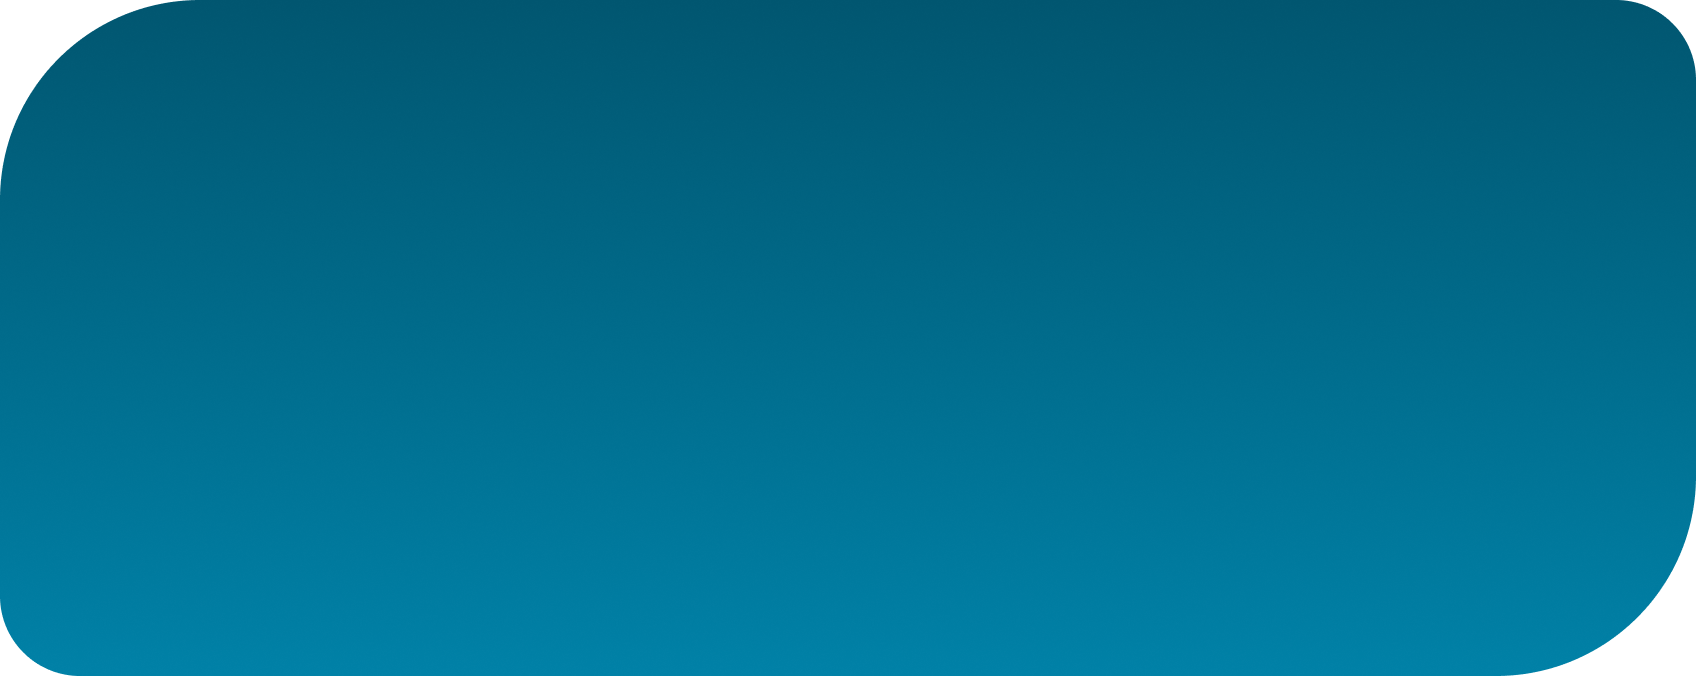
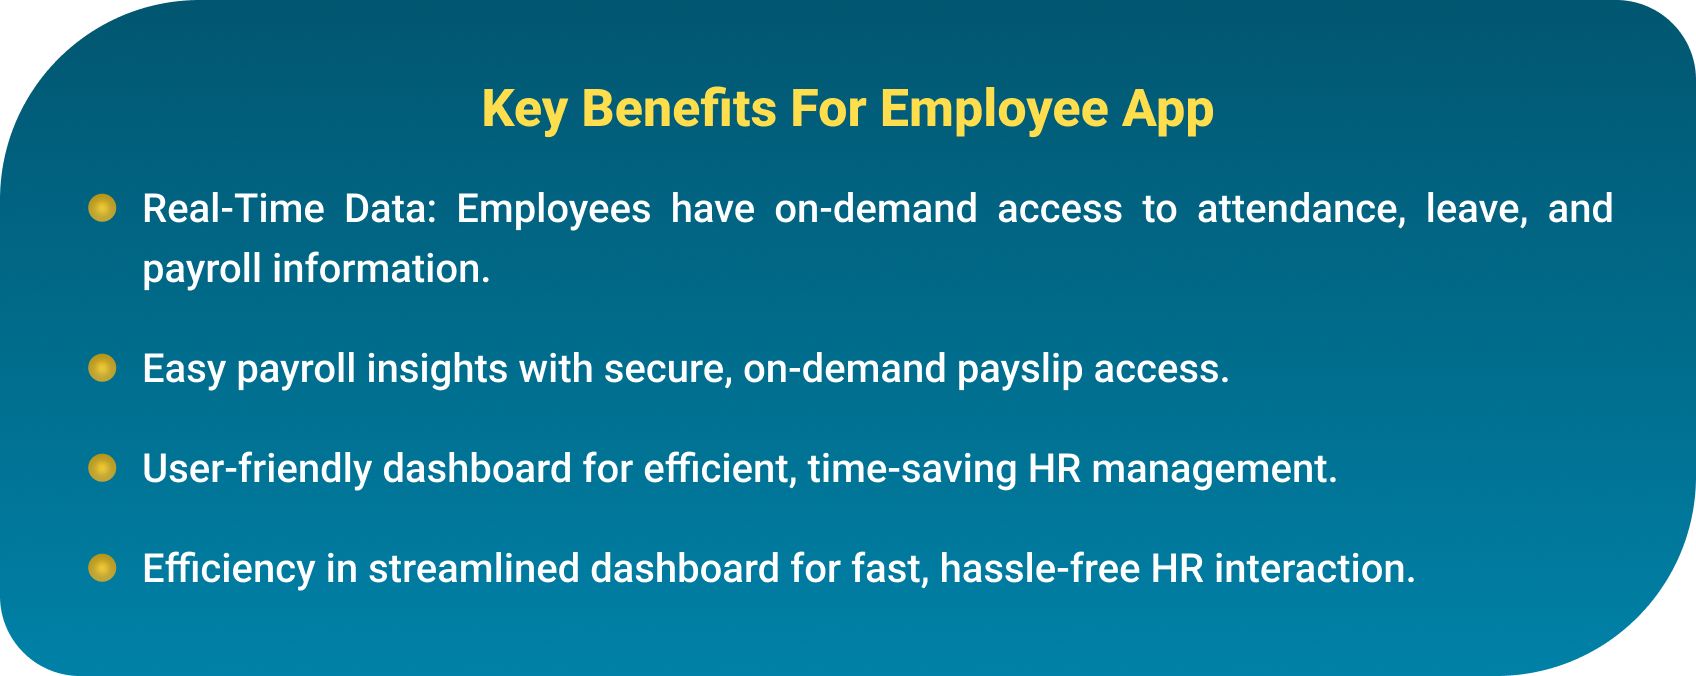
changes
banner

diff --git a/mobileapp.html b/mobileapp.html
@@ -1,5 +1,6 @@
 <!DOCTYPE html>
 <html lang="en">
+
 <head>
     <meta charset="UTF-8">
     <meta name="viewport" content="width=device-width, initial-scale=1.0">
@@ -16,8 +17,6 @@
     <script src="./bannerscript/bannerscript.js"></script>
     <link rel="stylesheet" href="./bannerstyles/bannerstyle.css">
 
- 
-    
     </script>
 </head>
 <body>
@@ -30,7 +29,9 @@
         <img src="./assets/banner/mobileapp.png" alt="IT Solutions Banner" class="banner-image">
         <div class="overlay-text">
             <h1>Seamless HR Management at Your Fingertips</h1>
-            <p class="banner-paragraph">"From clocking in to accessing payroll, HRIFY puts everything you need in one app. Easily manage attendance, request leave, and stay connected with your team—all in real-time, right from your mobile."</p>
+            <p class="banner-paragraph">"From clocking in to accessing payroll, HRIFY puts everything you need in one
+                app. Easily manage attendance, request leave, and stay connected with your team—all in real-time, right
+                from your mobile."</p>
             <button class="cta-button" id="cta-button">Explore Employee App Features</button>
         </div>
     </div>
@@ -39,56 +40,55 @@
     <!-- App-Simplifying  part -->
 
     <div class="container py-5">
-      <div class="row align-items-center">
-        <!-- Left Side Content -->
-        <div class="col-lg-8 col-md-12">
-            <h2 class="text-primary fw-bold">HRIFY Employee App - Simplifying HR on the Go</h2>
-            <p class="mb-4">The HRIFY Employee App streamlines payroll, leave, and attendance administration by putting necessary HR tools at workers' fingertips. Employees can easily stay informed and connected because of the dashboard's ease of use.</p>
-            <ul class="list-unstyled">
-                <li class="mb-2"><span class="text-primary fw-bold">● Check-in/Check-Out:</span> Simple one-touch check-in and check-out for accurate time tracking.</li>
-                <li class="mb-2"><span class="text-primary fw-bold">● Attendance Overview:</span> View attendance history and current status at a glance.</li>
-                <li class="mb-2"><span class="text-primary fw-bold">● Leave Tracking:</span> Seamlessly manage leave balances, request leaves, and track approvals.</li>
-                <li class="mb-2"><span class="text-primary fw-bold">● Payroll Access:</span> Instantly access payroll details, view salary breakdowns, and download payslips.</li>
-            </ul>
-        </div>
-
-        <!-- Right Side Image (Smaller) -->
-        <div class="col-lg-4 col-md-12 text-center mt-4 mt-lg-0">
-            <img src="./assets/mobileappscreen/one.png" alt="HRIFY App Screenshot" class="img-fluid w-50 mx-auto d-block rounded " style="width: 100px; height: auto;">
-        </div>
-     </div>
-</div>
-
-    <div class="container py-5">
-      <div class="row align-items-center">
-        <!-- left Side Image (Smaller) -->
-        <div class="col-lg-4 col-md-12 text-center mt-4 mt-lg-0">
-            <img src="./assets/mobileappscreen/two.png" alt="HRIFY App Screenshot" class="img-fluid w-50 mx-auto d-block rounded " style="width: 100px; height: auto;">
-        </div>
-
-        <div class="col-lg-8 col-md-12 text-center mt-4 mt-lg-0 position-relative">
-            <img src="./assets/mobileappscreen/back banner.png" alt="HRIFY App Screenshot" class="img-fluid mx-auto d-block rounded">
-            <div class="position-absolute top-50 start-50 translate-middle bg-dark text-white p-3 rounded shadow-lg w-75">
-                <h5 class="fw-bold">Key Benefits For Employee App</h5>
-                <ul class="text-start m-0 p-0" style="list-style-type: none;">
-                    <li>&#x2022; <strong>Real-Time Data:</strong> Employees have on-demand access to attendance, leave, and payroll information.</li>
-                    <li>&#x2022; Easy payroll insights with secure, on-demand payslip access.</li>
-                    <li>&#x2022; User-friendly dashboard for efficient, time-saving HR management.</li>
-                    <li>&#x2022; Efficiency in streamlined dashboard for fast, hassle-free HR interaction.</li>
+        <div class="row align-items-center">
+            <!-- Left Side Content -->
+            <div class="col-lg-8 col-md-12">
+                <h2 class="text-primary fw-bold">HRIFY Employee App - Simplifying HR on the Go</h2>
+                <p class="mb-4">The HRIFY Employee App streamlines payroll, leave, and attendance administration by
+                    putting necessary HR tools at workers' fingertips. Employees can easily stay informed and connected
+                    because of the dashboard's ease of use.</p>
+                <ul class="list-unstyled">
+                    <li class="mb-2"><span class="text-primary fw-bold">● Check-in/Check-Out:</span> Simple one-touch
+                        check-in and check-out for accurate time tracking.</li>
+                    <li class="mb-2"><span class="text-primary fw-bold">● Attendance Overview:</span> View attendance
+                        history and current status at a glance.</li>
+                    <li class="mb-2"><span class="text-primary fw-bold">● Leave Tracking:</span> Seamlessly manage leave
+                        balances, request leaves, and track approvals.</li>
+                    <li class="mb-2"><span class="text-primary fw-bold">● Payroll Access:</span> Instantly access
+                        payroll details, view salary breakdowns, and download payslips.</li>
                 </ul>
             </div>
+
+            <!-- Right Side Image (Smaller) -->
+            <div class="col-lg-4 col-md-12 text-center mt-4 mt-lg-0">
+                <img src="./assets/mobileappscreen/one.png" alt="HRIFY App Screenshot"
+                    class="img-fluid w-50 mx-auto d-block rounded " style="width: 100px; height: auto;">
+            </div>
         </div>
-        
-     </div>
-</div>
+    </div>
+
+    <div class="container py-5">
+        <div class="row align-items-center">
+            <!-- left Side Image (Smaller) -->
+            <div class="col-lg-4 col-md-12 text-center mt-4 mt-lg-0">
+                <img src="./assets/mobileappscreen/two.png" alt="HRIFY App Screenshot"
+                    class="img-fluid w-50 mx-auto d-block rounded " style="width: 100px; height: auto;">
+            </div>
+
+            <div class="col-lg-8 col-md-12 text-center mt-4 mt-lg-0 position-relative">
+                <!-- Background Image -->
+                <img src="./assets/mobileappscreen/back banner.png" alt="HRIFY App Screenshot"
+                    class="img-fluid mx-auto d-block rounded w-100">
+            </div>
+        </div>
+    </div>
 
 
-
-
- 
-<div id="footer"></div>
+    
+    <div id="footer"></div>
     <script src="./scripts/script.js"></script>
     <script src="https://cdn.jsdelivr.net/npm/bootstrap@5.3.0/dist/js/bootstrap.bundle.min.js"></script>
     <script src="https://kit.fontawesome.com/your-kit-code.js"></script>
 </body>
+
 </html>
